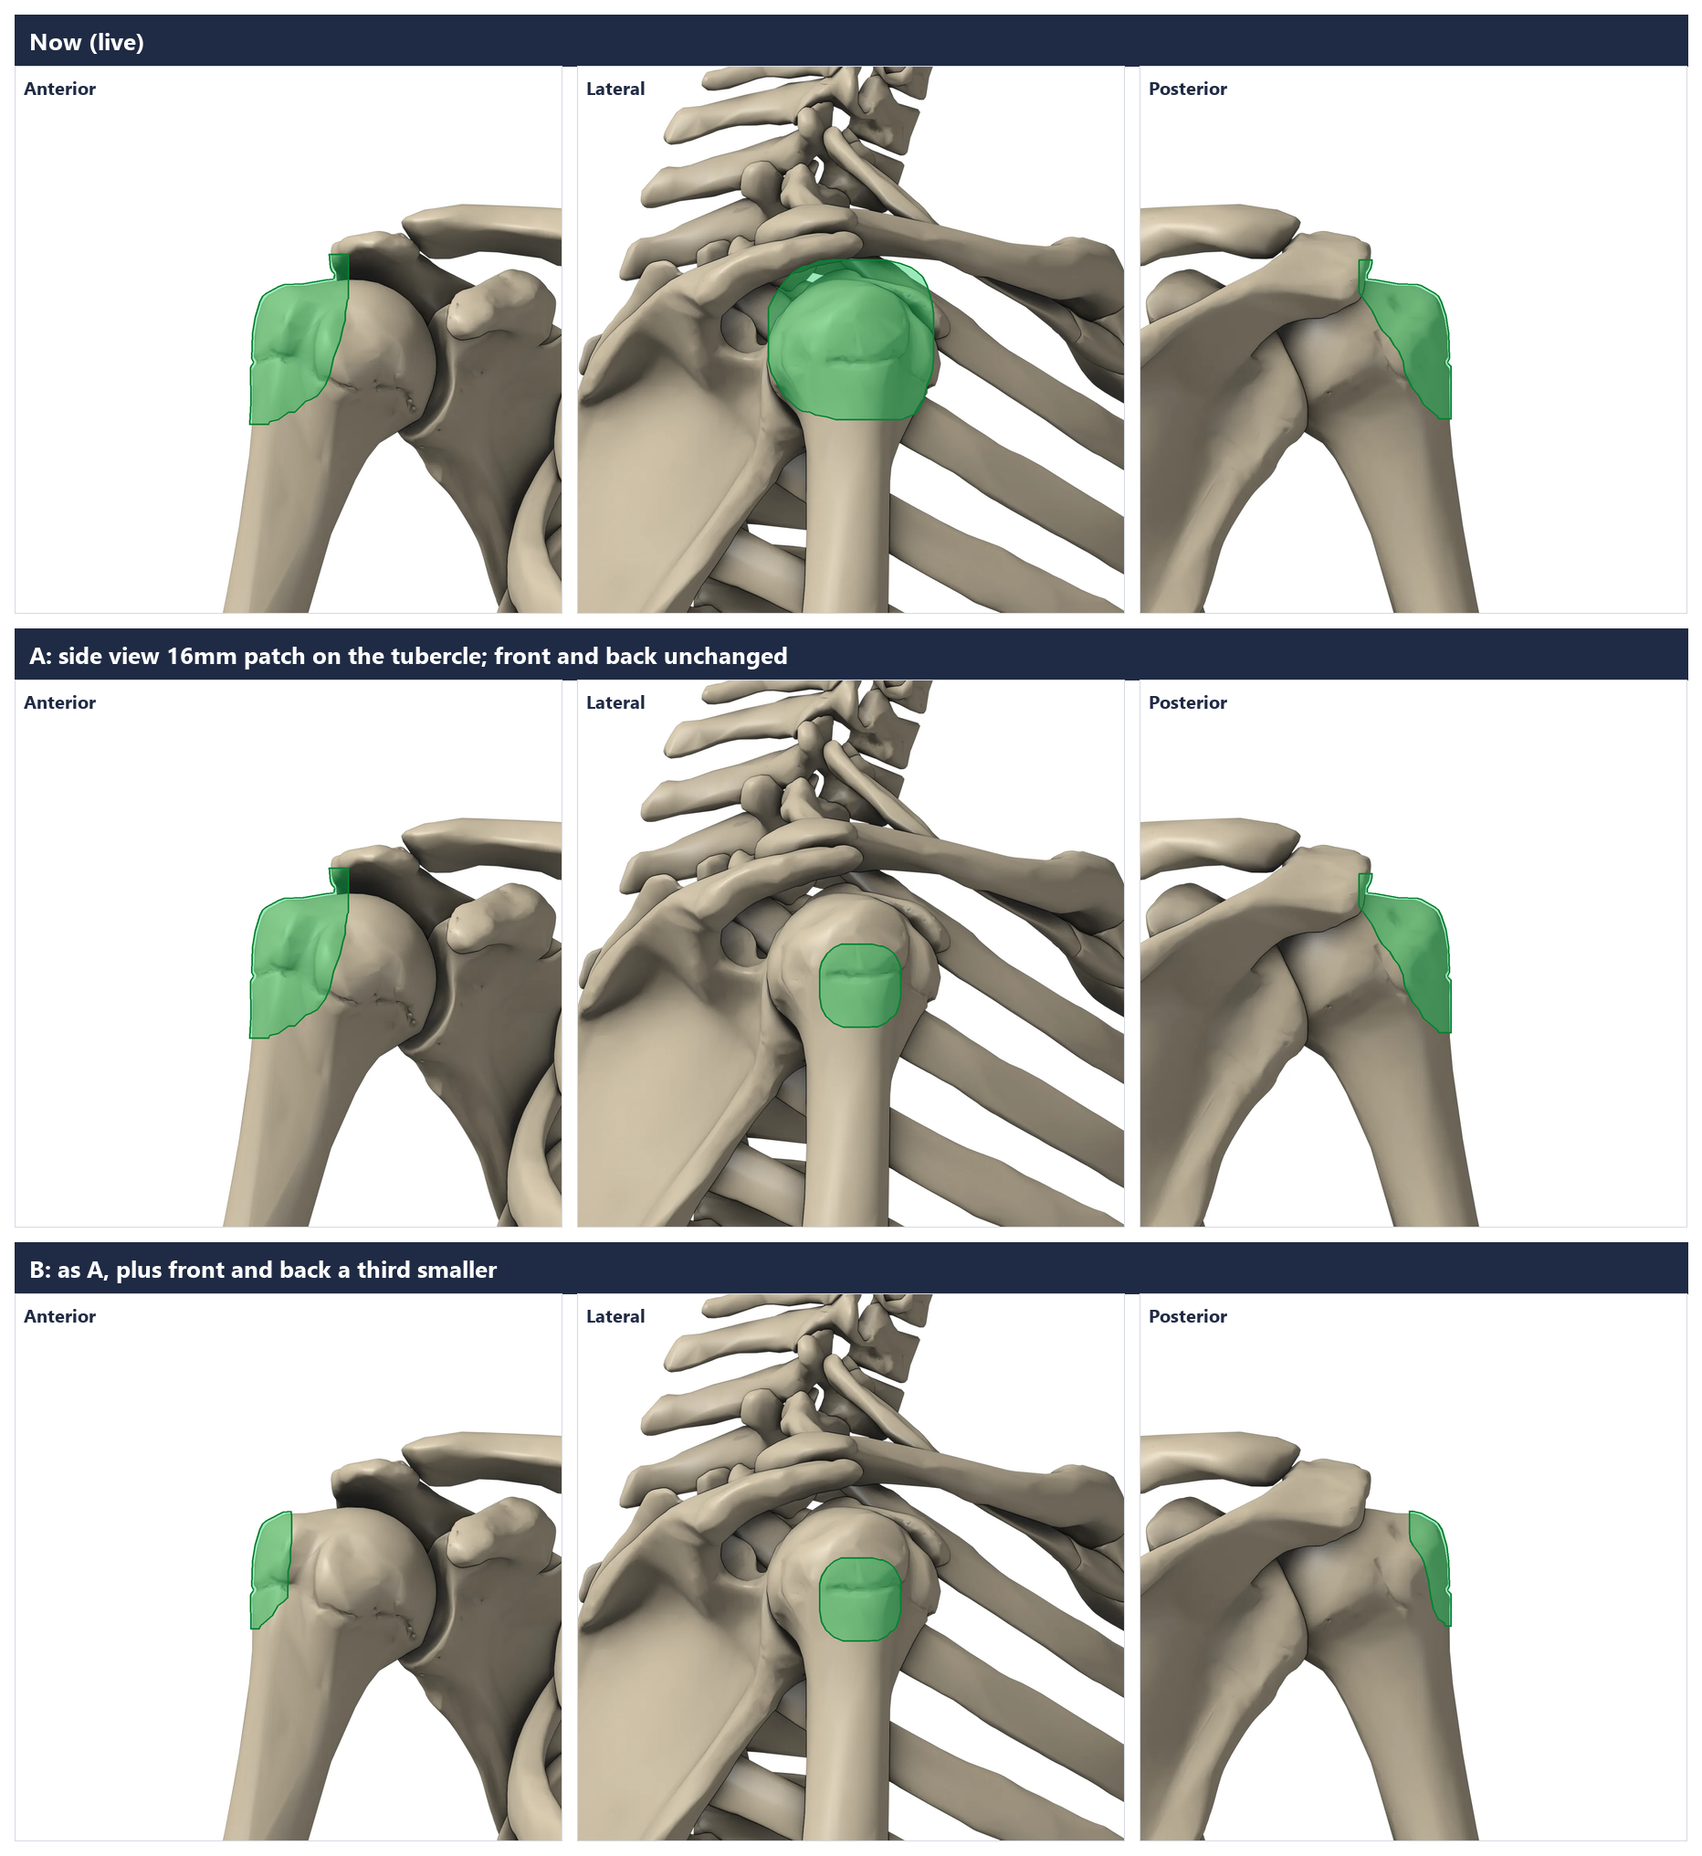
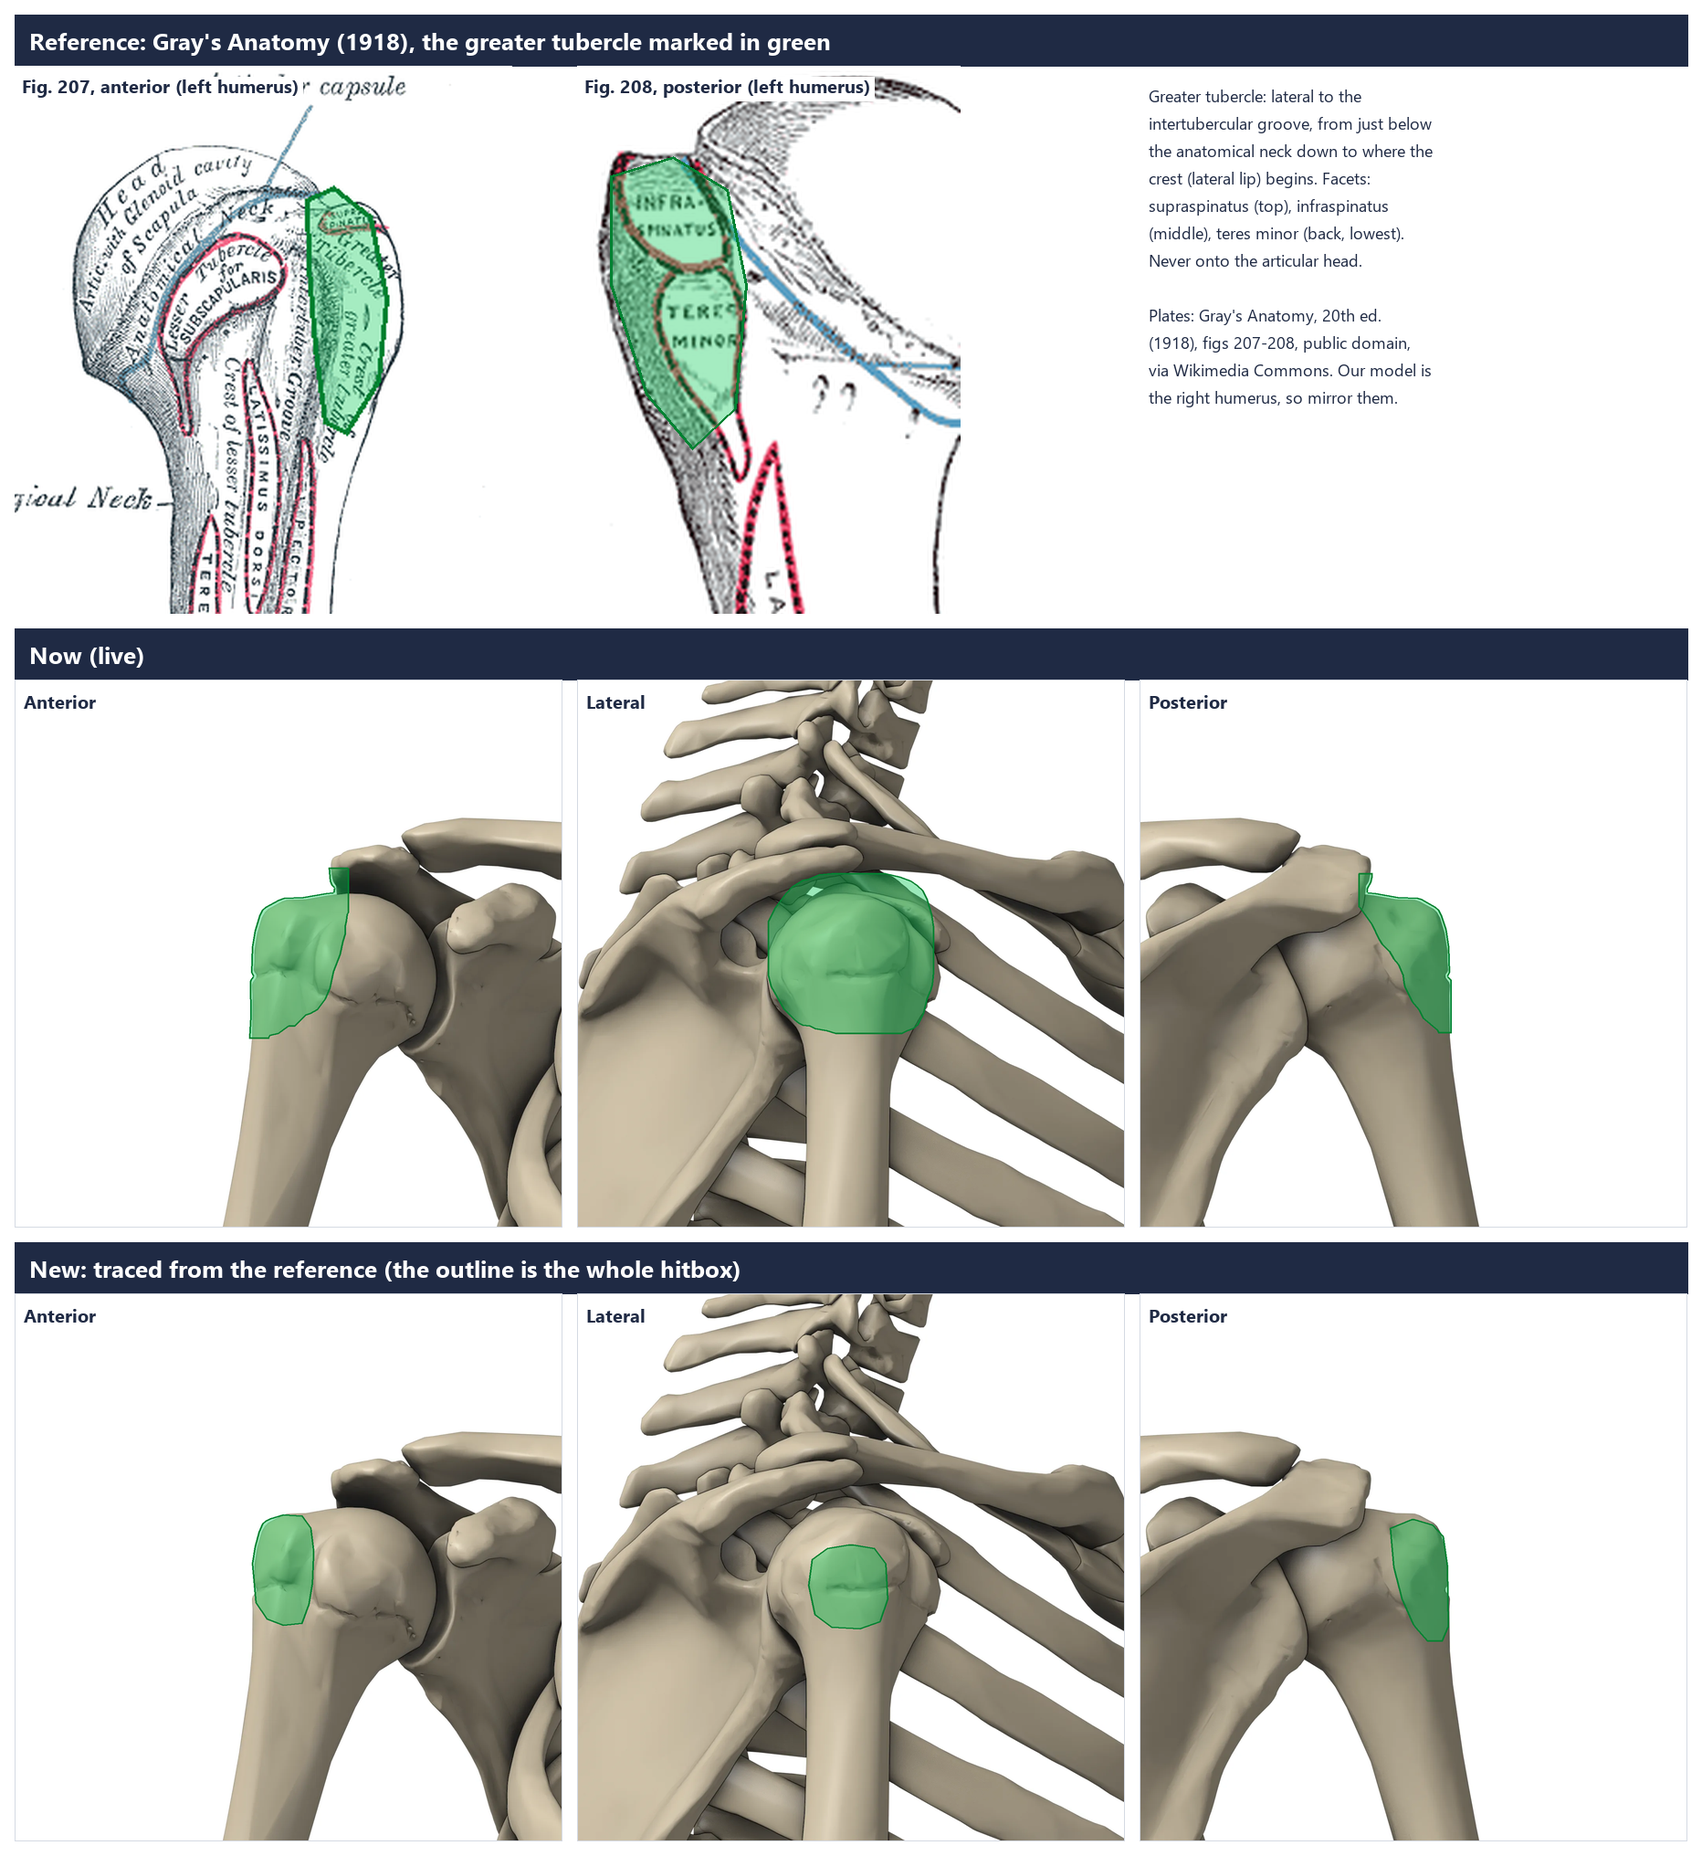
Trace the greater tubercle hitbox from Gray's plates
The owner asked for the hitbox to follow a reference image. Each view's
hitbox is now an outline traced from Gray's Anatomy (1918) figs 207-208:
lateral to the intertubercular groove, from just below the anatomical neck
down to where the crest of the greater tubercle begins, never onto the
articular head. They are drawn masks (landmark-drawn-masks/), which the
publisher uses as the whole hitbox. Pictures unchanged. The A/B switch from
the previous commit is removed. Preview: reference, live, new.

diff --git a/src/features/anatomy-revision/data/seed/hotspots.landmarks.generated.ts b/src/features/anatomy-revision/data/seed/hotspots.landmarks.generated.ts
@@ -62,9 +62,9 @@ export const LANDMARK_HOTSPOTS: Record<string, HotspotPolygon[]> = {
   'landmark-greater-trochanter-anterior': [{"structureId":"greater-trochanter","polygons":[[[0.43786,0.51143],[0.47643,0.40071],[0.505,0.365],[0.51214,0.35786],[0.53286,0.35071],[0.54571,0.35],[0.54571,0.36357],[0.54214,0.37143],[0.55714,0.38],[0.55714,0.395],[0.55286,0.40214],[0.55286,0.40571],[0.55429,0.40857],[0.55357,0.43143],[0.55857,0.44071],[0.55857,0.45714],[0.55714,0.46143],[0.55857,0.47286],[0.55857,0.51214],[0.55643,0.51929],[0.56,0.53357],[0.56,0.55286],[0.55643,0.56],[0.55571,0.57786],[0.55286,0.58786],[0.55,0.59286],[0.54214,0.60214],[0.53571,0.61357],[0.51571,0.63357],[0.51214,0.63929],[0.50143,0.65071],[0.49786,0.65786],[0.49643,0.65786],[0.47,0.61714],[0.44929,0.59071],[0.43786,0.54714]]],"area":0.026320449999999954,"centroid":[0.5046972183467674,0.5034558142776439],"targetCore":[[[0.43786,0.51143],[0.47643,0.40071],[0.505,0.365],[0.51214,0.35786],[0.53,0.35143],[0.54,0.35071],[0.54,0.35786],[0.53429,0.36929],[0.53429,0.37357],[0.53786,0.37857],[0.54929,0.38357],[0.55143,0.38571],[0.55143,0.38929],[0.54571,0.40071],[0.54571,0.40714],[0.54857,0.41429],[0.54714,0.435],[0.55286,0.44643],[0.55286,0.45143],[0.55071,0.45857],[0.55071,0.46929],[0.55286,0.47857],[0.55286,0.50643],[0.55,0.515],[0.55,0.52143],[0.55429,0.53929],[0.55429,0.54714],[0.55071,0.55429],[0.55,0.57214],[0.54714,0.58214],[0.54429,0.58714],[0.53643,0.59643],[0.53,0.60786],[0.51,0.62786],[0.50643,0.63357],[0.49571,0.645],[0.49357,0.64929],[0.49143,0.65],[0.47,0.61714],[0.44929,0.59071],[0.43786,0.54714]]]}],
   'landmark-greater-trochanter-lateral': [{"structureId":"greater-trochanter","polygons":[[[0.35929,0.49714],[0.36214,0.48357],[0.365,0.44429],[0.37,0.42857],[0.37714,0.42143],[0.38357,0.40929],[0.39429,0.39857],[0.40286,0.38643],[0.42429,0.36929],[0.44786,0.35571],[0.46357,0.35071],[0.49071,0.34786],[0.51643,0.34857],[0.52786,0.35143],[0.55786,0.365],[0.57929,0.37929],[0.595,0.38643],[0.60357,0.39214],[0.61,0.39857],[0.61714,0.40786],[0.62357,0.42571],[0.62643,0.43143],[0.63214,0.43786],[0.63571,0.44571],[0.635,0.47714],[0.63714,0.49571],[0.63714,0.515],[0.63286,0.52714],[0.62786,0.55],[0.62143,0.55929],[0.60643,0.59143],[0.58429,0.625],[0.56714,0.64071],[0.54214,0.65143],[0.52643,0.65214],[0.51571,0.65],[0.50357,0.65357],[0.48857,0.65357],[0.47714,0.65],[0.47214,0.65143],[0.45429,0.65143],[0.44571,0.64643],[0.40857,0.61571],[0.39571,0.60357],[0.38429,0.58643],[0.38,0.57643],[0.37643,0.55786],[0.37429,0.55357],[0.36643,0.545],[0.36643,0.52357],[0.35929,0.51286]]],"area":0.06712008465000009,"centroid":[0.4988388211684637,0.5001063961490099],"targetCore":[[[0.365,0.50286],[0.36786,0.48929],[0.37071,0.45],[0.37571,0.43429],[0.38286,0.42714],[0.38929,0.415],[0.4,0.40429],[0.40857,0.39214],[0.43,0.375],[0.45357,0.36143],[0.46929,0.35643],[0.49643,0.35357],[0.51071,0.35429],[0.52,0.35643],[0.55214,0.37071],[0.57357,0.385],[0.58929,0.39214],[0.59786,0.39786],[0.61,0.41143],[0.61786,0.43143],[0.62071,0.43714],[0.62643,0.44357],[0.63,0.45143],[0.62929,0.48286],[0.63143,0.50929],[0.62714,0.52143],[0.62214,0.54429],[0.61571,0.55357],[0.60071,0.58571],[0.57857,0.61929],[0.56143,0.635],[0.53643,0.64571],[0.52643,0.64571],[0.51929,0.64286],[0.51357,0.64286],[0.49786,0.64786],[0.47786,0.64357],[0.46,0.64571],[0.44429,0.635],[0.40929,0.60571],[0.40143,0.59786],[0.39,0.58071],[0.38571,0.57071],[0.38214,0.55214],[0.38,0.54786],[0.37286,0.54071],[0.37143,0.53714],[0.37286,0.51929],[0.36643,0.51071]]]}],
   'landmark-greater-trochanter-posterior': [{"structureId":"greater-trochanter","polygons":[[[0.455,0.35],[0.46643,0.35071],[0.48714,0.35786],[0.49429,0.365],[0.52286,0.40071],[0.53,0.41857],[0.56143,0.51143],[0.56143,0.54714],[0.55,0.59071],[0.52929,0.61714],[0.50214,0.65929],[0.5,0.65857],[0.49214,0.64786],[0.485,0.60786],[0.47214,0.57857],[0.47071,0.55786],[0.46857,0.55286],[0.46357,0.54786],[0.46143,0.54357],[0.46143,0.52857],[0.46357,0.52071],[0.45929,0.515],[0.45929,0.49857],[0.465,0.48071],[0.465,0.44571],[0.46714,0.44071],[0.46714,0.43071],[0.46286,0.42071],[0.46286,0.40929],[0.46071,0.40357],[0.46071,0.38143],[0.46429,0.36571],[0.46143,0.35786],[0.455,0.35214]]],"area":0.02053557245000004,"centroid":[0.5055103250631158,0.5029886147017048],"targetCore":[[[0.465,0.50429],[0.47071,0.48643],[0.47071,0.45143],[0.47429,0.44071],[0.47286,0.435],[0.47286,0.425],[0.46857,0.415],[0.46857,0.40357],[0.46643,0.39786],[0.46643,0.38714],[0.47143,0.36786],[0.46714,0.35286],[0.46714,0.35143],[0.46929,0.35143],[0.48714,0.35786],[0.49429,0.365],[0.52286,0.40071],[0.53,0.41857],[0.56143,0.51143],[0.56143,0.54714],[0.55,0.59071],[0.52929,0.61714],[0.50714,0.65143],[0.505,0.65143],[0.49786,0.64214],[0.49071,0.60214],[0.47786,0.57286],[0.47643,0.55214],[0.47429,0.54714],[0.46929,0.54214],[0.46714,0.53786],[0.47143,0.52],[0.465,0.50929]]]}],
-  'landmark-greater-tubercle-humerus-anterior': [{"structureId":"greater-tubercle-humerus","polygons":[[[0.42857,0.65214],[0.43,0.615],[0.42929,0.55143],[0.43,0.54857],[0.43571,0.54143],[0.43214,0.53429],[0.43357,0.48857],[0.43857,0.45786],[0.44714,0.42929],[0.45214,0.42071],[0.45857,0.41429],[0.48214,0.40143],[0.49143,0.39786],[0.52714,0.39714],[0.56786,0.38929],[0.58214,0.38786],[0.58286,0.38071],[0.57857,0.375],[0.57571,0.36786],[0.57286,0.34357],[0.60857,0.34357],[0.61,0.345],[0.61,0.425],[0.60786,0.42786],[0.60714,0.44],[0.60429,0.45071],[0.60429,0.46429],[0.6,0.47786],[0.595,0.50143],[0.58286,0.53286],[0.57714,0.56286],[0.56857,0.58357],[0.55357,0.60357],[0.54,0.61071],[0.53143,0.61286],[0.51143,0.63357],[0.50071,0.63357],[0.48214,0.64643],[0.46714,0.65071],[0.46429,0.65357],[0.46429,0.65571],[0.42857,0.65571]]],"area":0.037618588300000075,"centroid":[0.5146139217487989,0.505561057014651],"targetCore":[[[0.42929,0.55143],[0.43,0.54857],[0.43571,0.54143],[0.43214,0.53429],[0.43214,0.52214],[0.43357,0.51429],[0.43357,0.48857],[0.43786,0.46143],[0.44714,0.42929],[0.45214,0.42071],[0.45857,0.41429],[0.48214,0.40143],[0.49143,0.39786],[0.52714,0.39714],[0.56714,0.39],[0.56714,0.4],[0.56429,0.41071],[0.56357,0.42857],[0.56,0.43786],[0.555,0.46143],[0.54286,0.49286],[0.53714,0.52286],[0.52857,0.54357],[0.52,0.55357],[0.51643,0.56071],[0.51357,0.56357],[0.5,0.57071],[0.49143,0.57286],[0.47286,0.59286],[0.46214,0.59286],[0.44214,0.60643],[0.43429,0.60929],[0.43,0.60929]]]}],
-  'landmark-greater-tubercle-humerus-lateral': [{"structureId":"greater-tubercle-humerus","polygons":[[[0.44143,0.53071],[0.44571,0.515],[0.45429,0.50071],[0.46857,0.48857],[0.48214,0.48214],[0.53929,0.48143],[0.55286,0.48571],[0.55857,0.48571],[0.56857,0.49],[0.57857,0.49857],[0.58357,0.50571],[0.59071,0.52071],[0.59214,0.52714],[0.59214,0.57929],[0.58857,0.59714],[0.58286,0.61],[0.57714,0.61643],[0.57286,0.61857],[0.56571,0.62714],[0.54929,0.63429],[0.53857,0.63429],[0.535,0.63571],[0.485,0.63571],[0.46857,0.62786],[0.45286,0.61429],[0.445,0.60071],[0.44143,0.57929]]],"area":0.020517124449999966,"centroid":[0.516705094429644,0.5582674320090296],"targetCore":[[[0.46429,0.55357],[0.46857,0.53786],[0.47714,0.52357],[0.49571,0.50857],[0.51,0.50429],[0.51643,0.50429],[0.53,0.50857],[0.53571,0.50857],[0.55,0.51571],[0.56071,0.52857],[0.56786,0.54357],[0.56929,0.55],[0.56857,0.56214],[0.56571,0.57429],[0.55857,0.58929],[0.55,0.59571],[0.54071,0.60571],[0.53429,0.60714],[0.52643,0.61143],[0.51571,0.61143],[0.51214,0.61286],[0.50786,0.61286],[0.49143,0.605],[0.47571,0.59143],[0.46786,0.57786]]]}],
-  'landmark-greater-tubercle-humerus-posterior': [{"structureId":"greater-tubercle-humerus","polygons":[[[0.39929,0.355],[0.40071,0.35357],[0.425,0.35357],[0.425,0.36071],[0.42286,0.37071],[0.41643,0.38143],[0.41714,0.38786],[0.43143,0.38929],[0.47214,0.39714],[0.50786,0.39786],[0.51571,0.40071],[0.54071,0.41429],[0.54714,0.42071],[0.55214,0.42929],[0.56,0.455],[0.56571,0.48857],[0.56714,0.53429],[0.56357,0.54143],[0.56929,0.54857],[0.57,0.55143],[0.57,0.64571],[0.545,0.64571],[0.54357,0.64071],[0.51714,0.61786],[0.50929,0.60286],[0.49643,0.58857],[0.48357,0.56],[0.48143,0.55286],[0.48071,0.54],[0.47143,0.52],[0.46357,0.51071],[0.455,0.49643],[0.44214,0.48357],[0.43714,0.47571],[0.42357,0.44643],[0.40214,0.41714],[0.39929,0.415]]],"area":0.02525369895,"centroid":[0.5014852946926217,0.4922347985271811],"targetCore":[[[0.435,0.39071],[0.47214,0.39714],[0.50786,0.39786],[0.51571,0.40071],[0.54071,0.41429],[0.54714,0.42071],[0.55214,0.42929],[0.56,0.455],[0.56571,0.48857],[0.56714,0.53429],[0.56357,0.54143],[0.56929,0.54857],[0.57,0.55143],[0.56929,0.60571],[0.56429,0.60286],[0.54714,0.58786],[0.53929,0.57286],[0.52643,0.55857],[0.51357,0.53],[0.51143,0.52286],[0.51071,0.51],[0.50143,0.49],[0.49357,0.48071],[0.485,0.46643],[0.47214,0.45357],[0.46714,0.44571],[0.45357,0.41643]]]}],
+  'landmark-greater-tubercle-humerus-anterior': [{"structureId":"greater-tubercle-humerus","polygons":[[[0.43357,0.49357],[0.43786,0.46143],[0.445,0.43571],[0.45214,0.42071],[0.45857,0.41429],[0.46643,0.41],[0.49071,0.40286],[0.52571,0.40571],[0.54143,0.42857],[0.54643,0.46857],[0.54643,0.48071],[0.54429,0.53],[0.53786,0.56857],[0.525,0.60357],[0.49071,0.60643],[0.46,0.59571],[0.43929,0.56429]]],"area":0.019340756649999943,"centroid":[0.4915912581373254,0.5033065545733448],"targetCore":[[[0.43357,0.49357],[0.43786,0.46143],[0.445,0.43571],[0.45214,0.42071],[0.45857,0.41429],[0.46643,0.41],[0.49071,0.40286],[0.52571,0.40571],[0.54143,0.42857],[0.54643,0.46857],[0.54643,0.48071],[0.54429,0.53],[0.53786,0.56857],[0.525,0.60357],[0.49071,0.60643],[0.46,0.59571],[0.43929,0.56429]]]}],
+  'landmark-greater-tubercle-humerus-lateral': [{"structureId":"greater-tubercle-humerus","polygons":[[[0.42143,0.53357],[0.42857,0.48571],[0.45714,0.46429],[0.49571,0.45786],[0.50429,0.45786],[0.54286,0.46429],[0.56429,0.49286],[0.56786,0.55786],[0.55429,0.59857],[0.55357,0.6],[0.51643,0.61357],[0.46429,0.61071],[0.43286,0.58643]]],"area":0.019107950999999956,"centroid":[0.4961450790148563,0.5354383083061866],"targetCore":[[[0.42143,0.53357],[0.42857,0.48571],[0.45714,0.46429],[0.49571,0.45786],[0.50429,0.45786],[0.54286,0.46429],[0.56429,0.49286],[0.56786,0.55786],[0.55429,0.59857],[0.55357,0.6],[0.51643,0.61357],[0.46429,0.61071],[0.43286,0.58643]]]}],
+  'landmark-greater-tubercle-humerus-posterior': [{"structureId":"greater-tubercle-humerus","polygons":[[[0.45714,0.42857],[0.49643,0.41214],[0.50214,0.41143],[0.53571,0.42143],[0.55571,0.44286],[0.56286,0.49786],[0.56429,0.60786],[0.55357,0.63571],[0.525,0.63571],[0.50286,0.61071],[0.49786,0.60286],[0.47857,0.55786],[0.46286,0.50071]]],"area":0.01818435765000001,"centroid":[0.5163557463361648,0.5164898998611865],"targetCore":[[[0.45714,0.42857],[0.49643,0.41214],[0.50214,0.41143],[0.53571,0.42143],[0.55571,0.44286],[0.56286,0.49786],[0.56429,0.60786],[0.55357,0.63571],[0.525,0.63571],[0.50286,0.61071],[0.49786,0.60286],[0.47857,0.55786],[0.46286,0.50071]]]}],
   'landmark-head-of-fibula-anterior': [{"structureId":"head-of-fibula","polygons":[[[0.40643,0.50357],[0.41429,0.47571],[0.43714,0.43429],[0.45571,0.40643],[0.46714,0.39643],[0.46857,0.39643],[0.47286,0.41143],[0.48357,0.425],[0.49643,0.43714],[0.50357,0.44643],[0.52857,0.48571],[0.57143,0.56143],[0.57929,0.58571],[0.58,0.59571],[0.57857,0.6],[0.56786,0.59571],[0.55643,0.59643],[0.54929,0.59286],[0.54357,0.59286],[0.53786,0.595],[0.52,0.595],[0.515,0.59357],[0.50214,0.59357],[0.49214,0.59571],[0.48071,0.595],[0.44429,0.60071],[0.43,0.57214],[0.40929,0.53786],[0.40643,0.51643]]],"area":0.021101507150000032,"centroid":[0.48254156786014984,0.519007980907136],"targetCore":[[[0.40643,0.50357],[0.41429,0.47571],[0.43714,0.43429],[0.45571,0.40643],[0.46714,0.39643],[0.46857,0.39643],[0.47286,0.41143],[0.48357,0.425],[0.49643,0.43714],[0.50357,0.44643],[0.52857,0.48571],[0.57143,0.56143],[0.57929,0.58571],[0.58,0.59571],[0.57857,0.6],[0.56786,0.59571],[0.55643,0.59643],[0.54929,0.59286],[0.54357,0.59286],[0.53786,0.595],[0.52,0.595],[0.515,0.59357],[0.50214,0.59357],[0.49214,0.59571],[0.48071,0.595],[0.44429,0.60071],[0.43,0.57214],[0.40929,0.53786],[0.40643,0.51643]]]}],
   'landmark-head-of-fibula-lateral': [{"structureId":"head-of-fibula","polygons":[[[0.40786,0.545],[0.41214,0.53786],[0.41214,0.52429],[0.40857,0.49643],[0.40857,0.48643],[0.42071,0.41929],[0.42429,0.41071],[0.43143,0.40286],[0.44714,0.39357],[0.45786,0.39214],[0.46286,0.39429],[0.50571,0.43143],[0.545,0.45071],[0.56643,0.45857],[0.58,0.46714],[0.58643,0.47357],[0.58929,0.47857],[0.59143,0.49],[0.58786,0.51429],[0.55214,0.58714],[0.545,0.59357],[0.52357,0.59571],[0.51286,0.59857],[0.48571,0.59429],[0.46714,0.59643],[0.45929,0.59429],[0.44071,0.595],[0.42857,0.59357],[0.41786,0.59929],[0.41357,0.6],[0.41429,0.56214],[0.41286,0.55143]]],"area":0.027799075600000014,"centroid":[0.48901484594589645,0.5066896148244944],"targetCore":[[[0.40786,0.545],[0.41214,0.53786],[0.41214,0.52429],[0.40857,0.49643],[0.40857,0.48643],[0.42071,0.41929],[0.42429,0.41071],[0.43143,0.40286],[0.44714,0.39357],[0.45786,0.39214],[0.46286,0.39429],[0.50571,0.43143],[0.545,0.45071],[0.56643,0.45857],[0.58,0.46714],[0.58643,0.47357],[0.58929,0.47857],[0.59143,0.49],[0.58786,0.51429],[0.55214,0.58714],[0.545,0.59357],[0.52357,0.59571],[0.51286,0.59857],[0.48571,0.59429],[0.46714,0.59643],[0.45929,0.59429],[0.44071,0.595],[0.42857,0.59357],[0.41786,0.59929],[0.41357,0.6],[0.41429,0.56214],[0.41286,0.55143]]]}],
   'landmark-head-of-fibula-posterior': [{"structureId":"head-of-fibula","polygons":[[[0.40786,0.50857],[0.40857,0.5],[0.41714,0.47],[0.41857,0.45929],[0.42286,0.44786],[0.42857,0.43857],[0.44286,0.42357],[0.47286,0.40071],[0.48643,0.39286],[0.49214,0.39143],[0.51071,0.39143],[0.51571,0.39286],[0.53,0.39214],[0.53071,0.395],[0.54357,0.40643],[0.56214,0.43429],[0.58357,0.47286],[0.59286,0.50357],[0.59286,0.51714],[0.59,0.53786],[0.56929,0.57214],[0.55571,0.59929],[0.54643,0.59571],[0.525,0.59286],[0.51786,0.59357],[0.50786,0.59857],[0.50286,0.59857],[0.49857,0.59643],[0.49,0.58857],[0.48571,0.58786],[0.48214,0.59071],[0.47857,0.60071],[0.47357,0.60286],[0.45429,0.58643],[0.445,0.58929],[0.43857,0.585],[0.43,0.595],[0.425,0.59714],[0.42143,0.59714],[0.42,0.59571],[0.40857,0.52643]]],"area":0.030197052549999978,"centroid":[0.49840632023990955,0.5020247392965842],"targetCore":[[[0.40786,0.50857],[0.40857,0.5],[0.41714,0.47],[0.41857,0.45929],[0.42286,0.44786],[0.42857,0.43857],[0.44286,0.42357],[0.47286,0.40071],[0.48643,0.39286],[0.49214,0.39143],[0.51071,0.39143],[0.51571,0.39286],[0.53,0.39214],[0.53071,0.395],[0.54357,0.40643],[0.56214,0.43429],[0.58357,0.47286],[0.59286,0.50357],[0.59286,0.51714],[0.59,0.53786],[0.56929,0.57214],[0.55571,0.59929],[0.54643,0.59571],[0.525,0.59286],[0.51786,0.59357],[0.50786,0.59857],[0.50286,0.59857],[0.49857,0.59643],[0.49,0.58857],[0.48571,0.58786],[0.48214,0.59071],[0.47857,0.60071],[0.47357,0.60286],[0.45429,0.58643],[0.445,0.58929],[0.43857,0.585],[0.43,0.595],[0.425,0.59714],[0.42143,0.59714],[0.42,0.59571],[0.40857,0.52643]]]}],
